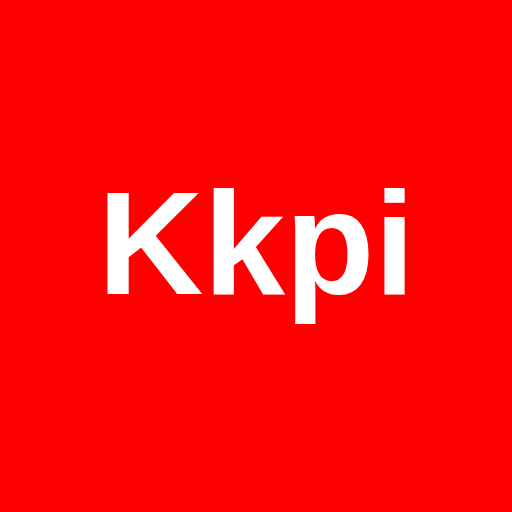
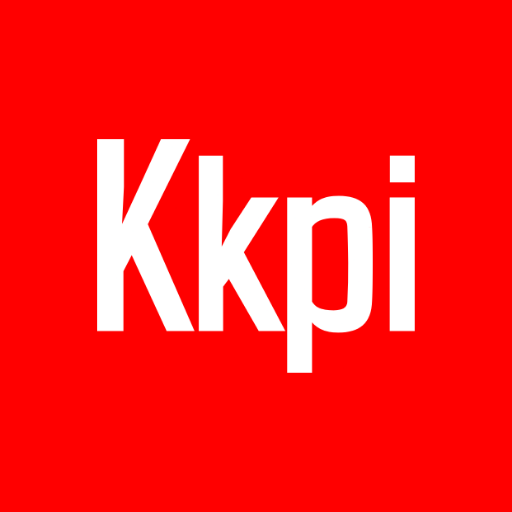
feat(icone): deriva variantes maskable do logótipo original
As icon-192/512.png passaram a ser os ficheiros originais enviados. As
variantes maskable são agora geradas a partir desse ficheiro em vez do
redesenho anterior: o lettering é recortado pela sua caixa real
(x=64,y=115, 385x283 no original 512) e redesenhado a 62% da largura,
centrado sobre fundo #FF0000 a sangrar — dentro da zona segura de 80%,
para as máscaras do Android não cortarem as letras.

Mesmos letterforms e mesmo vermelho em todas as variantes.

Claude-Session: https://claude.ai/code/session_01UVgpTu6pX291tAHymQnX5g

Changed region(s): [[0.1875, 0.25, 0.8125, 0.75]]

diff --git a/versao.md b/versao.md
@@ -12,7 +12,7 @@
 - **Ícone ligado também como `favicon` e `apple-touch-icon`** — a app não tinha nenhum e o pedido a `/favicon.ico` devolvia 404
 - O bump de versão renova o `CACHE_NAME` do Service Worker, para que as PWA já instaladas recebam os ícones novos na próxima visita online
 
-> ℹ Os ficheiros PNG foram reconstruídos a partir do logótipo fornecido (Liberation Sans Bold). Para usar o ficheiro original exacto, basta substituir os quatro `icon-*.png` na raiz — os nomes e caminhos mantêm-se.
+> ℹ `icon-192.png` e `icon-512.png` são os ficheiros originais do logótipo. As variantes *maskable* são derivadas deles por recorte do lettering e reposicionamento na zona segura — mesmos letterforms, mesmo vermelho (`#FF0000`).
 
 ---
 
